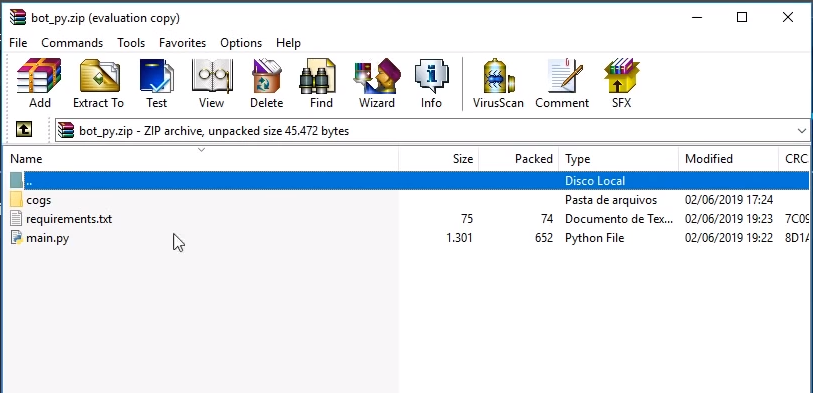
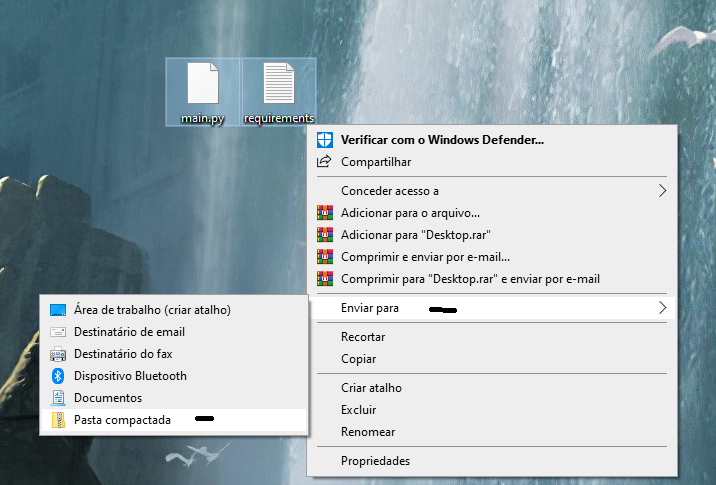
GitBook: [master] 2 pages and 4 assets modified

diff --git a/suporte/linguagens/python/README.md b/suporte/linguagens/python/README.md
@@ -8,7 +8,7 @@ description: Aprenda a hospedar seu bot em Python na DisCloud
 
 **`main.py`** e **`requirements.txt`**
 
-![O arquivo principal do seu bot, ou seja, o local onde est&#xE1; o bot.run\(\). GERALMENTE &#xE9; main.py](../../../.gitbook/assets/capturar.PNG)
+![O arquivo principal do seu bot, ou seja, o local onde est&#xE1; o bot.run\(\). GERALMENTE &#xE9; main.py](../../../.gitbook/assets/capturar%20%281%29.PNG)
 
 {% hint style="warning" %}
 **Quaisquer outros arquivos que seja necessário em seu Bot sem ser esses dois podem ser adicionados**. \(Isso vale para as cogs também\).
@@ -51,7 +51,5 @@ Escolha o método para hospedar seu Bot na Discloud:
 
 Pronto, em alguns segundos ou minutos, o seu Bot estará online.
 
-![](../../../.gitbook/assets/image%20%287%29.png)
-
-Pronto, em alguns segundos ou minutos, o seu Bot estará online.
+![](../../../.gitbook/assets/capturar.PNG)
 

diff --git a/suporte/conexoes/mlab-mongodb-atlas.md b/suporte/conexoes/mlab-mongodb-atlas.md
@@ -22,5 +22,5 @@ De acordo com um problema do [Github](https://github.com/meteor/meteor/issues/74
 
 Então de acordo com o [documentação](https://docs.atlas.mongodb.com/security-whitelist/) do MongoDB Atlas, a única maneira de fazer com que as instancias da DisCloud se conecte ao seu banco, é adicionar **`0.0.0.0/0`**\(ou seja, todos os endereços\) à sua lista de permissões do MongoDB Atlas.
 
-![](../../.gitbook/assets/capturar%20%282%29.PNG)
+![](../../.gitbook/assets/capturar%20%283%29.PNG)
 
